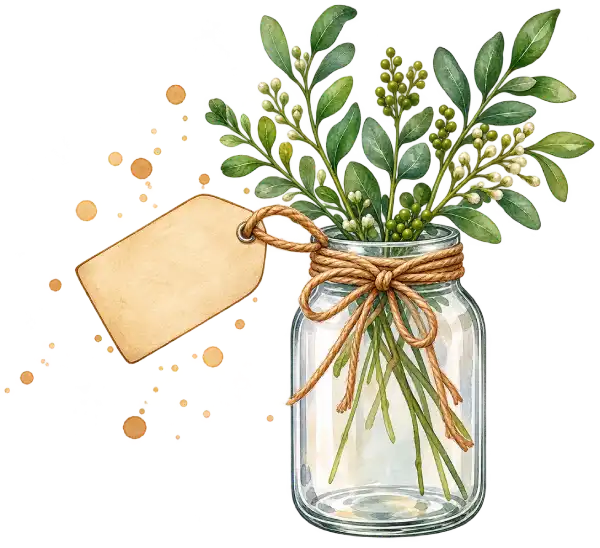
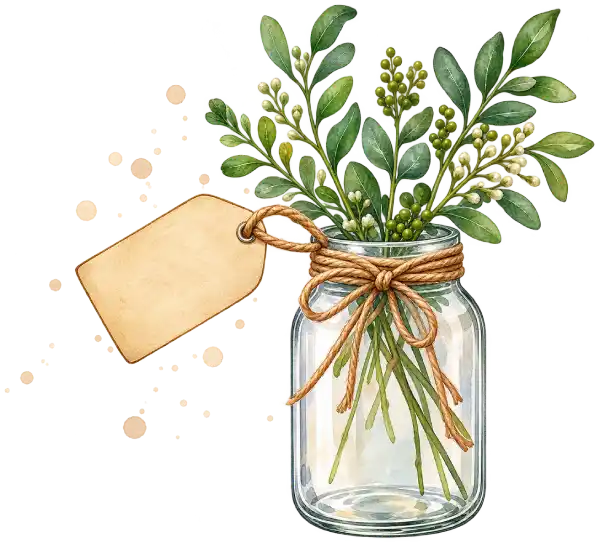
test

diff --git a/5thAnniversary/index.html b/5thAnniversary/index.html
@@ -1067,6 +1067,7 @@
         overflow: hidden;
         text-align: center;
         background: #f5f0e5;
+        isolation: isolate;
       }
       footer::before {
         content: "";
@@ -1075,6 +1076,7 @@
         bottom: -40px;
         width: 190px;
         height: 190px;
+        z-index: -1;
         border-radius: 61% 39% 60% 40% / 45% 45% 55% 55%;
         background: rgba(213, 221, 196, 0.58);
       }
@@ -1094,6 +1096,7 @@
         color: #565148;
         font-size: 0.71rem;
         line-height: 1.65;
+        z-index: 5;
       }
       .credit {
         position: relative;
@@ -1234,7 +1237,6 @@
         left: -24px;
         bottom: 5px;
         width: 140px;
-        z-index: 10;
         pointer-events: none;
         transform: scaleX(-1);
       }
